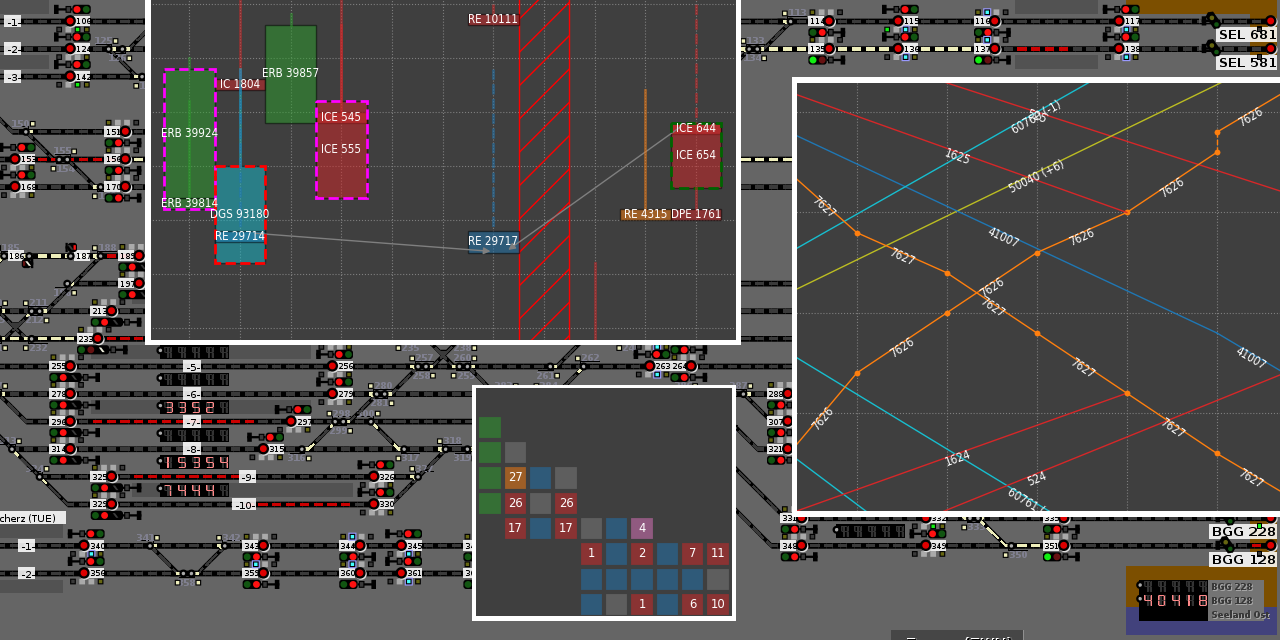
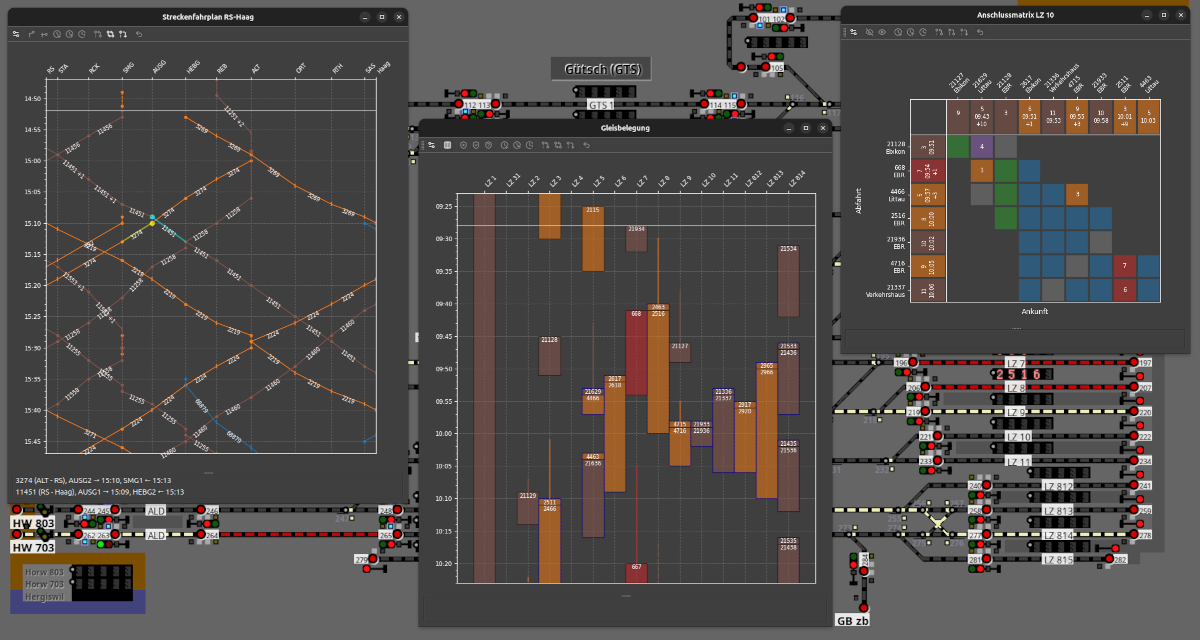
Neues Social Abstract

diff --git a/docs/de/index.md b/docs/de/index.md
@@ -1,13 +1,17 @@
 
-# STSkit / STSdispo
+# STSdispo
 
-[Stellwerksim](https://www.stellwerksim.de) ist ein kollaboratives, Online-Stellwerksimulatorspiel.
-Das _STSkit_-Paket enthält verschiedene Plugins zu [Stellwerksim](https://www.stellwerksim.de), die dich beim Spiel unterstützen.
-Das Hauptprogramm _STSdispo_ bietet eine Reihe von grafischen Werkzeugen wie Bildfahrplan, Gleisbelegung und Anschlussmatrix.
-Es liest die Live-Daten des laufenden Spiels aus, stellt sie grafisch dar, und unterstützt dich bei der Disposition.
+_STSdispo_ ist ein Plugin zu [Stellwerksim].
+Es bietet eine Reihe von grafischen Werkzeugen wie Bildfahrplan, Gleisbelegung und Anschlussmatrix, 
+die dich beim Spiel unterstützen.
+Es liest die Live-Daten des laufenden Spiels aus, stellt sie grafisch dar, und unterstützt dich bei der Disposition der Züge.
+[Stellwerksim] ist ein kollaboratives, Online-Stellwerksimulatorspiel.
 
-_STSkit_ enthält eine Implementierung der Stellwerksim Plugin-Schnittstelle in Python, die du auch in eigenen Projekten verwenden kannst.
+_STSkit_ enthält eine Implementierung der Stellwerksim Plugin-Schnittstelle in Python, die du auch für eigene Plugins verwenden kannst.
 
+[Stellwerksim]: https://www.stellwerksim.de
+
+![Abstract](../img/github-social-abstract.png)
 
 ## Hauptmerkmale
 

diff --git a/docs/en/index.md b/docs/en/index.md
@@ -1,11 +1,16 @@
 
-# STSkit / STSdispo
+# STSdispo
 
-_STSkit_ provides graphical data analysis tools such as graphical timetable, track allocation and connection matrix
-that help you to play [Stellwerksim](https://www.stellwerksim.de) more efficiently.
-[Stellwerksim](https://www.stellwerksim.de) is a collaborative online railroad traffic controller simulation game.
+_STSdispo_ is plugin to [Stellwerksim].
+It provides graphical data analysis tools such as graphical timetable, track allocation and connection matrix
+that help you to play [Stellwerksim] more efficiently.
+[Stellwerksim] is a collaborative online railroad traffic controller simulation game.
 
-_STSkit_ also implements a plugin client interface in Python that you can use in your own plugin development.
+_STSkit_ also contains a Python interface to [Stellwerskim] that you can use in your own plugin development.
+
+[Stellwerksim]: https://www.stellwerksim.de
+
+![Abstract](../img/github-social-abstract.png)
 
 ### Main features
 

diff --git a/docs/index.md b/docs/index.md
@@ -1,6 +1,7 @@
-# STSkit / STSdispo
-
-![Graphical abstract](img/github-social-abstract.png)
+# STSdispo
 
 - [Deutsch](de/index.md)
 - [English](en/index.md)
+
+
+![Abstract](img/github-social-abstract.png)